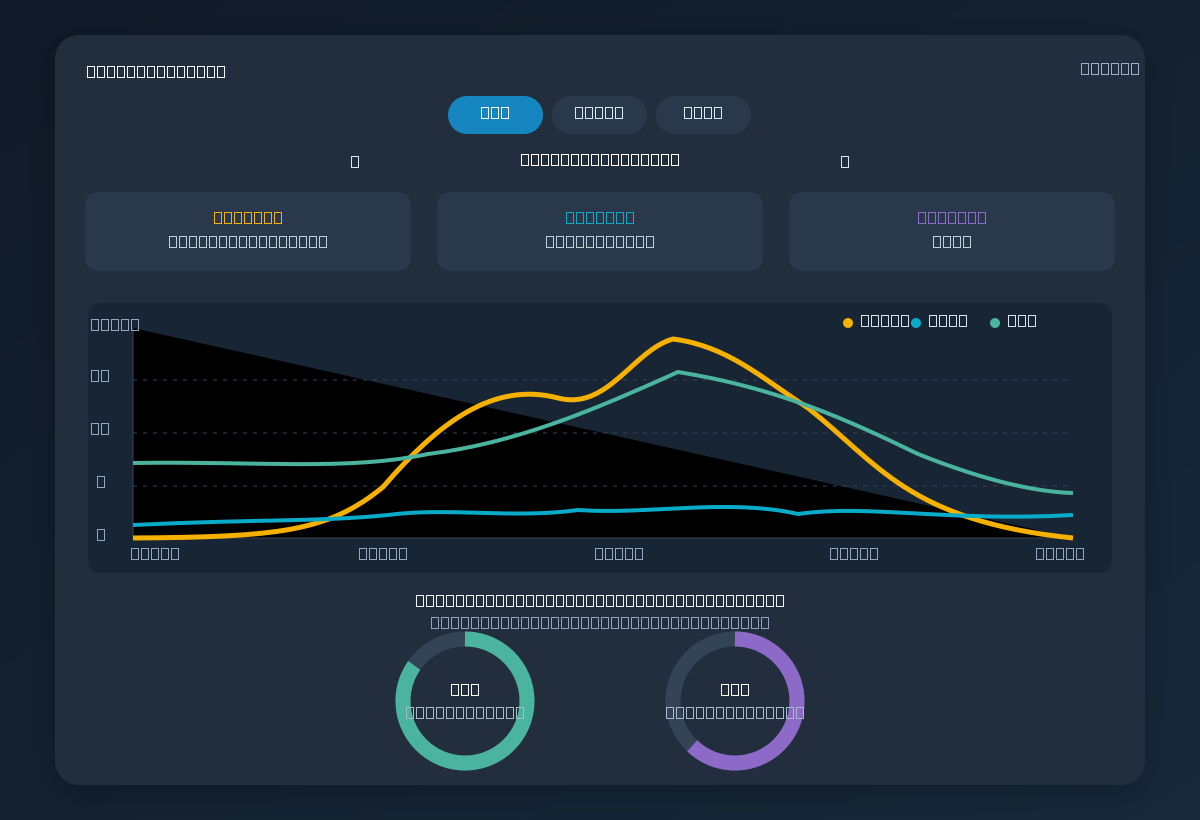
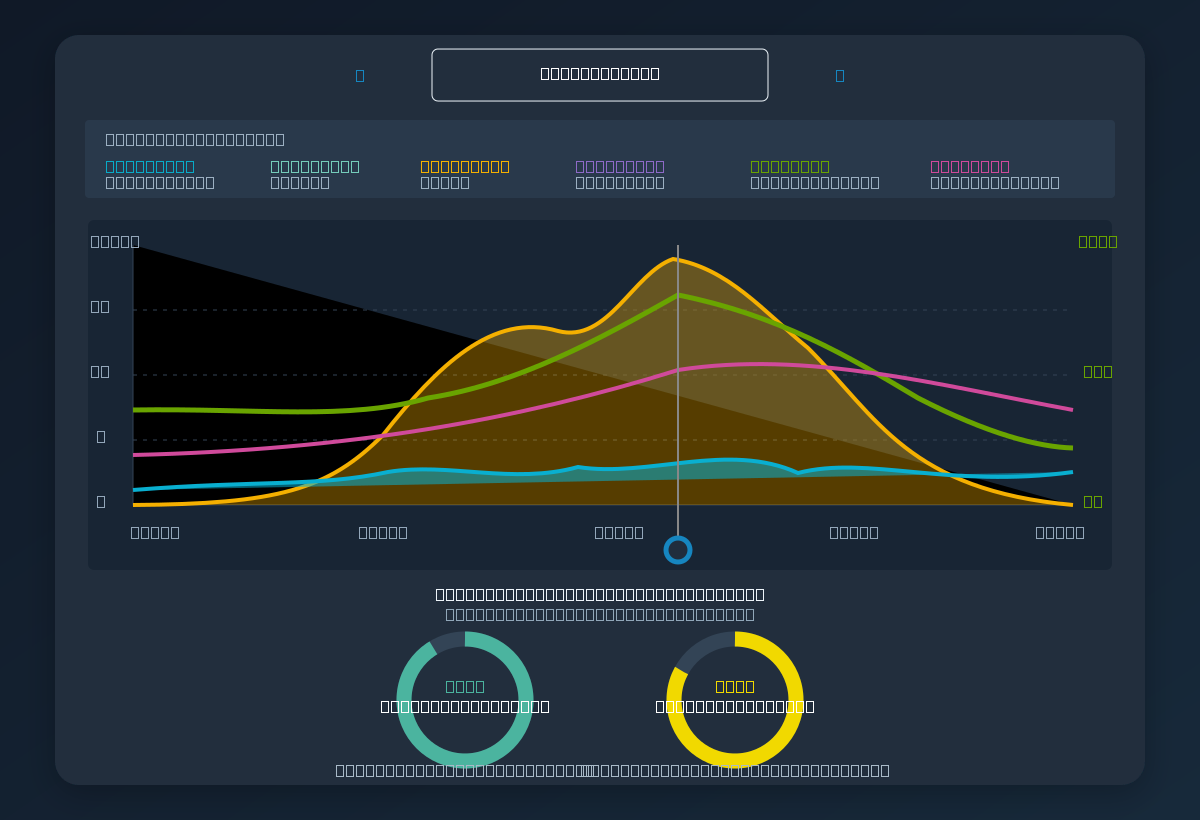
docs: align previews with Sonnen-style interface

diff --git a/dist/energy-horizon-card.js b/dist/energy-horizon-card.js
@@ -1,4 +1,4 @@
-const EH_VERSION = "0.2.0";
+const EH_VERSION = "0.2.1";
 
 const EH_I18N = {
   en: {

diff --git a/README.md b/README.md
@@ -18,7 +18,7 @@ the required entities.
 
 </details>
 
-## Features in 0.2.0
+## Features in 0.2.1
 
 - visual setup wizard in the Lovelace card editor;
 - solar production and real home-consumption power;
